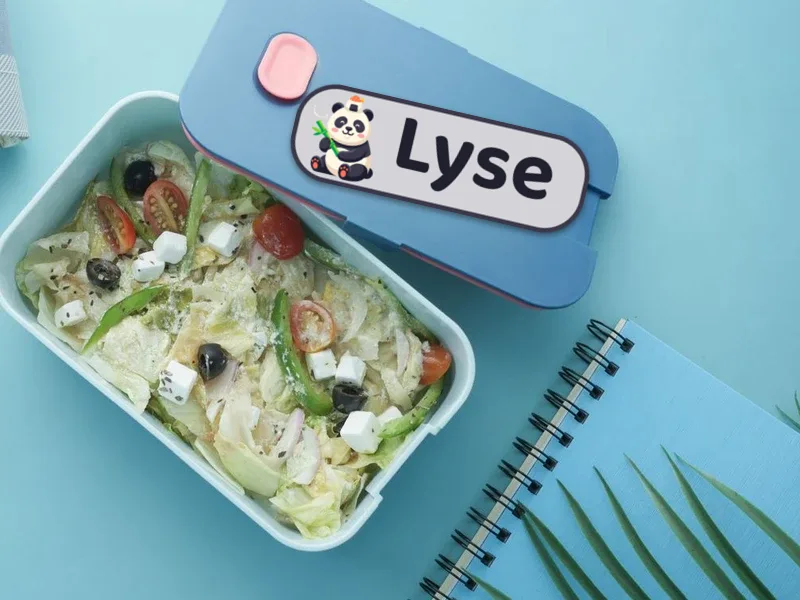
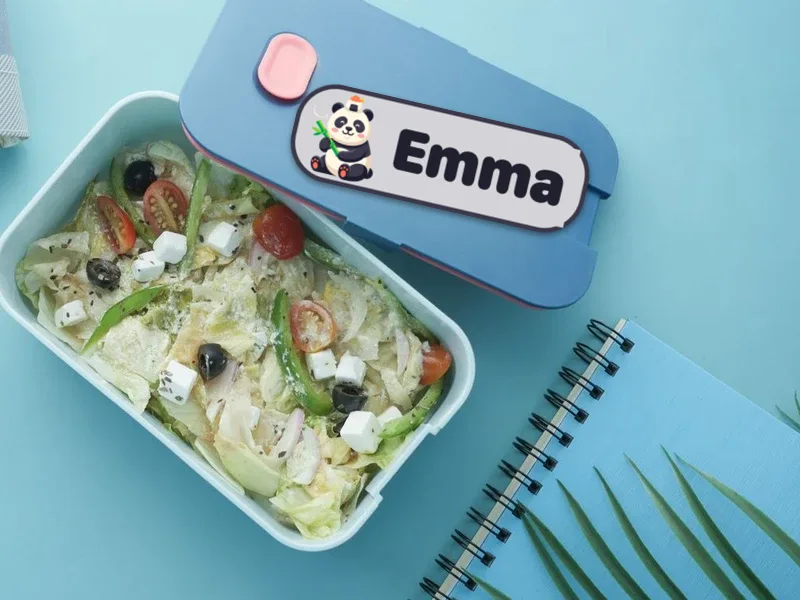
feat(mini-massive): config etiquette dans le courriel de confirmation (#122)
* content(mini-massive): prenom fixe Lyse -> Emma (code + fallback + test)

SAMPLE_NAMES.fr Lyse->Emma (fallback ultime), commentaires + fixture test SKU.
Le pool des 31 prenoms tournants reste inchange (Lyse n'y etait pas). Reste a
regenerer les 3 mockups cuits (label Baloo 2) avec Emma.

* content(mini-massive): mockups cuits prenom Lyse -> Emma (gourde/verre/lunchbox)

Labels regeneres avec 'Emma' (SF Rounded Heavy, tres proche du Baloo du
configurateur - police web absente en local), recomposes sur les 3 photos.
mockup-lunchbox alimente aussi la carte home Mini Massive. Le pool des 31
prenoms tournants de l'apercu reste inchange.

* feat(mini-massive): config etiquette dans le courriel de confirmation

Le client doit voir CE qu'il a commande. La personnalisation (design, prenom,
ligne 2, style, coins, format) voyageait deja jusqu'au dashboard prod mais PAS
dans les courriels. Ajout : etiquette portee dans les 4 payloads d'items email
(webhook + relances), + rendu en chips sous le nom du produit dans
buildOrderConfirmationHtml. Le prenom est SAISI CLIENT -> escapeHtml (injection
HTML bloquee, verifie : <script> rendu en &lt;script&gt;). tsc 0 erreur.

---------

Changed region(s): [[0.4688, 0.18, 0.7188, 0.36]]

diff --git a/backend/src/utils/email.ts b/backend/src/utils/email.ts
@@ -117,6 +117,12 @@ interface OrderItem {
   totalPrice: number;
   size?: string;
   finish?: string;
+  // Mini Massive : personnalisation etiquette (voyage depuis le configurateur).
+  // Le client doit voir CE qu'il a commande dans la confirmation.
+  etiquette?: {
+    design?: string; line1?: string; line2?: string;
+    font?: string; corner?: string; format?: string; pack?: string;
+  } | null;
 }
 
 interface OrderEmailData {
@@ -145,11 +151,19 @@ function formatPrice(cents: number): string {
   return (cents / 100).toFixed(2);
 }
 
-function buildOrderConfirmationHtml(data: OrderEmailData): string {
+export function buildOrderConfirmationHtml(data: OrderEmailData): string {
+  // Mini Massive : chips de personnalisation sous le nom du produit. Les valeurs
+  // (prenom, ligne 2...) sont SAISIES PAR LE CLIENT -> escapeHtml OBLIGATOIRE.
+  const etiChip = (label: string, val: any) => val
+    ? `<span style="display:inline-block;background:#f4f4f6;border-radius:5px;padding:2px 8px;margin:3px 5px 0 0;font-size:12px;color:#555;">${escapeHtml(label)}&nbsp;<strong style="color:#222;">${escapeHtml(String(val))}</strong></span>`
+    : '';
+  const etiBlock = (e?: OrderItem['etiquette']) => e
+    ? `<div style="margin-top:6px;">${etiChip('Design', e.design)}${etiChip('Prénom', e.line1)}${etiChip('Ligne 2', e.line2)}${etiChip('Style', e.font)}${etiChip('Coins', e.corner)}${etiChip('Format', e.format)}</div>`
+    : '';
   const itemRows = data.items.map(item => `
     <tr>
       <td style="padding:10px 12px;border-bottom:1px solid #eee;color:#222;font-size:14px;">
-        ${item.productName}${item.size ? ` - ${item.size}` : ''}${item.finish ? ` (${item.finish})` : ''}
+        ${item.productName}${item.size ? ` - ${item.size}` : ''}${item.finish ? ` (${item.finish})` : ''}${etiBlock(item.etiquette)}
       </td>
       <td style="padding:10px 12px;border-bottom:1px solid #eee;text-align:center;color:#222;font-size:14px;">
         ${item.quantity}

diff --git a/backend/src/api/order/controllers/order.ts b/backend/src/api/order/controllers/order.ts
@@ -1251,6 +1251,8 @@ export default factories.createCoreController('api::order.order', ({ strapi }) =
             totalPrice: item.totalPrice || 0,
             size: item.size || '',
             finish: item.finish || '',
+            // Mini Massive : la personnalisation etiquette suit jusqu'au courriel.
+            etiquette: item.etiquette || null,
           }));
 
           const [confirmRes, adminRes] = await Promise.allSettled([
@@ -4020,6 +4022,7 @@ export default factories.createCoreController('api::order.order', ({ strapi }) =
             totalPrice: item.totalPrice || 0,
             size: item.size || '',
             finish: item.finish || '',
+            etiquette: item.etiquette || null,
           })),
           subtotal: order.subtotal || 0,
           shipping: order.shipping || 0,
@@ -4473,6 +4476,7 @@ export default factories.createCoreController('api::order.order', ({ strapi }) =
           totalPrice: it.totalPrice || 0,
           size: it.size || '',
           finish: it.finish || '',
+          etiquette: it.etiquette || null,
         }));
         await sendOrderConfirmationEmail({
           customerName: orderData.customerName,
@@ -6032,6 +6036,7 @@ ${allUrls
               totalPrice: item.totalPrice || 0,
               size: item.size || '',
               finish: item.finish || '',
+              etiquette: item.etiquette || null,
             })),
             subtotal: order.subtotal || 0,
             shipping: order.shipping || 0,

diff --git a/frontend/src/data/skuRegistry.test.js b/frontend/src/data/skuRegistry.test.js
@@ -107,7 +107,7 @@ describe('familles legitimes : prix serveur exact', () => {
   })
   it('mini massive : 3 packs 24 / 34 / 44 $ (prix FORCE, config ignoree)', async () => {
     // la config (design, prenom, police, coins) voyage mais NE change PAS le prix
-    const r = await resolve({ productId: 'etiquette-pack-essentiel', quantity: 1, totalPrice: 999, etiquette: { line1: 'Lyse', font: 'baloo' } })
+    const r = await resolve({ productId: 'etiquette-pack-essentiel', quantity: 1, totalPrice: 999, etiquette: { line1: 'Emma', font: 'baloo' } })
     expect(r).toMatchObject({ ok: true, family: 'etiquette-pack', price: 24 })
     expect((await resolve({ productId: 'etiquette-pack-rentree', quantity: 1 })).price).toBe(34)
     expect((await resolve({ productId: 'etiquette-pack-complet', quantity: 1 })).price).toBe(44)

diff --git a/frontend/src/pages/Etiquettes.jsx b/frontend/src/pages/Etiquettes.jsx
@@ -662,7 +662,7 @@ export default function Etiquettes() {
           configurateur garde son apercu live a lui. Photos Pexels (licence
           Pexels, commercial libre) : gourde 8611290 (RDNE Stock project),
           verre 38380651 (Ann H), crayon 4237814, cahier 7054764. Etiquettes :
-          4 designs, prenom Lyse. RELANCER le script apres tout changement.
+          4 designs, prenom Emma. RELANCER le script apres tout changement.
           La ligne sous la section leve toute ambiguite : Massive vend LES
           ETIQUETTES, pas les objets. */}
       <section className="section-container">

diff --git a/frontend/src/data/etiquettes.js b/frontend/src/data/etiquettes.js
@@ -279,7 +279,7 @@ export const ETIQUETTE_CLAIMS = [
 ]
 
 /** Prenoms d'exemple par langue (decision Mika 1b). */
-export const SAMPLE_NAMES = { fr: 'Lyse', en: 'Kevin', es: 'Paolo' } // fallback ultime
+export const SAMPLE_NAMES = { fr: 'Emma', en: 'Kevin', es: 'Paolo' } // fallback ultime
 // Prenoms d'exemple TOURNANTS dans l'apercu du configurateur (rotation aleatoire
 // au chargement + a chaque changement de design). MEME liste pour les 3 langues
 // (des prenoms, pas des traductions). Editable. Le champ se vide des que le
